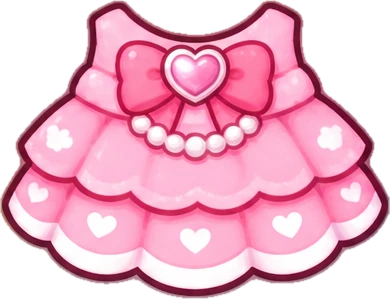
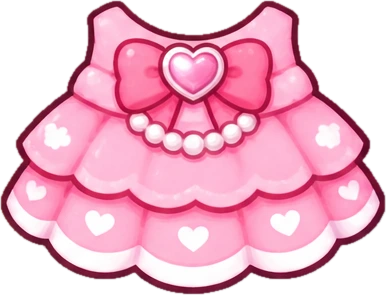
Recut pearl heart dress (hem was cropped)
Claude-Session: https://claude.ai/code/session_01R3m8MAFkhgnU4D5f6BKp5W

diff --git a/index.html b/index.html
@@ -752,7 +752,7 @@ var FOODS = {
 var SHOP = [];
 /* 이미지로 만든 아이템: {id,name,slot,tier,cost,file:'assets/items/id.webp',box:[x,y,w,h]} 를 여기에 추가하면
    뽑기·꾸미기·도감에 자동으로 들어가요. box는 캔버스(640x520) 좌표, vb는 box 와 같아요. */
-var IMG_ITEMS = [{"id": "ribbon", "name": "빨간 리본", "slot": "side", "tier": 0, "cost": 8, "file": "assets/items/ribbon.webp", "box": [374.5, 56.1, 125, 71.7]}, {"id": "flower", "name": "꽃 핀", "slot": "side", "tier": 0, "cost": 12, "file": "assets/items/flower.webp", "box": [152.5, 43.1, 105, 97.7]}, {"id": "sprout", "name": "새싹 핀", "slot": "side", "tier": 0, "cost": 8, "file": "assets/items/sprout.webp", "box": [382.0, 53.3, 110, 77.5]}, {"id": "heart", "name": "하트 핀", "slot": "side", "tier": 0, "cost": 10, "file": "assets/items/heart.webp", "box": [383.0, 46.8, 108, 90.4]}, {"id": "star", "name": "별 핀", "slot": "side", "tier": 0, "cost": 10, "file": "assets/items/star.webp", "box": [383.0, 37.5, 108, 108.9]}, {"id": "cloudbow", "name": "구름 무지개 핀", "slot": "side", "tier": 0, "cost": 12, "file": "assets/items/cloudbow.webp", "box": [377.0, 51.8, 120, 80.5]}, {"id": "cherry", "name": "체리 핀", "slot": "side", "tier": 0, "cost": 12, "file": "assets/items/cherry.webp", "box": [387.0, 42.4, 100, 99.2]}, {"id": "glasses", "name": "동그란 안경", "slot": "face", "tier": 1, "cost": 15, "file": "assets/items/glasses.webp", "box": [143.5, 166.3, 355, 147.4]}, {"id": "scarf", "name": "따뜻한 목도리", "slot": "neck", "tier": 1, "cost": 20, "file": "assets/items/scarf.webp", "box": [179.5, 318.9, 285, 178.3]}, {"id": "hat", "name": "파티 모자", "slot": "head", "tier": 1, "cost": 25, "file": "assets/items/hat.webp", "box": [250.0, -80.1, 140, 168.1]}, {"id": "wingpin", "name": "날개 핀", "slot": "side", "tier": 1, "cost": 18, "file": "assets/items/wingpin.webp", "box": [379.5, 46.4, 115, 91.1]}, {"id": "purplebow", "name": "보라 리본 핀", "slot": "side", "tier": 1, "cost": 15, "file": "assets/items/purplebow.webp", "box": [377.0, 50.1, 120, 83.8]}, {"id": "lacebow", "name": "레이스 리본 핀", "slot": "side", "tier": 1, "cost": 18, "file": "assets/items/lacebow.webp", "box": [379.5, 38.0, 115, 108.1]}, {"id": "snow", "name": "눈꽃 핀", "slot": "side", "tier": 1, "cost": 20, "file": "assets/items/snow.webp", "box": [387.0, 48.3, 100, 87.4]}, {"id": "moon", "name": "달별 핀", "slot": "side", "tier": 1, "cost": 22, "file": "assets/items/moon.webp", "box": [382.0, 39.7, 110, 104.6]}, {"id": "crown", "name": "반짝 왕관", "slot": "head", "tier": 2, "cost": 0, "file": "assets/items/crown.webp", "box": [230.0, -37.8, 180, 127.8]}, {"id": "wizard", "name": "별 마법사 모자", "slot": "head", "tier": 2, "cost": 0, "file": "assets/items/wizard.webp", "box": [177.0, -77.3, 290, 189.3]}, {"id": "starwing", "name": "별무지개 날개 머리띠", "slot": "head", "tier": 2, "cost": 0, "file": "assets/items/starwing.webp", "box": [165.0, 28.9, 310, 134.2]}, {"id": "nightcap", "name": "꿀잠 모자", "slot": "head", "tier": 2, "cost": 0, "file": "assets/items/nightcap.webp", "box": [192.0, 9.8, 260, 180.4]}, {"id": "maid", "name": "프릴 리본 머리띠", "slot": "head", "tier": 2, "cost": 0, "file": "assets/items/maid.webp", "box": [190.0, 19.6, 260, 156.9]}, {"id": "angel", "name": "천사 날개 후광", "slot": "head", "tier": 3, "cost": 0, "file": "assets/items/angel.webp", "box": [150.0, 6.4, 340, 177.1]}, {"id": "bat", "name": "박쥐 날개", "slot": "head", "tier": 3, "cost": 0, "file": "assets/items/bat.webp", "box": [165.0, 48.5, 310, 127.1]}, {"id": "wreath", "name": "꽃 화관", "slot": "head", "tier": 3, "cost": 0, "file": "assets/items/wreath.webp", "box": [180.0, 19.0, 280, 162.0]}, {"id": "tiara", "name": "날개 티아라", "slot": "head", "tier": 3, "cost": 0, "file": "assets/items/tiara.webp", "box": [195.0, 18.6, 250, 146.9]}, {"id": "galaxy", "name": "은하수 머리띠", "slot": "head", "tier": 3, "cost": 0, "file": "assets/items/galaxy.webp", "box": [160.0, 23.2, 320, 161.5]}, {"id": "broom", "name": "빗자루", "slot": "hand", "tier": 0, "cost": 14, "file": "assets/items/broom.webp", "box": [401.6, 283, 100.8, 230]}, {"id": "drink", "name": "음료수", "slot": "hand", "tier": 0, "cost": 10, "file": "assets/items/drink.webp", "box": [136.2, 332, 97.6, 162]}, {"id": "schoolbag", "name": "학교가방", "slot": "hand", "tier": 0, "cost": 16, "file": "assets/items/schoolbag.webp", "box": [383.0, 392, 133.0, 140]}, {"id": "slime", "name": "슬라임", "slot": "hand", "tier": 1, "cost": 18, "file": "assets/items/slime.webp", "box": [108.0, 331.1, 154, 116.8]}, {"id": "gameboy", "name": "휴대용 게임기", "slot": "hand", "tier": 1, "cost": 24, "file": "assets/items/gameboy.webp", "box": [222.0, 359.4, 195, 109.1]}, {"id": "bananadoll", "name": "바나나 애착인형", "slot": "hand", "tier": 2, "cost": 0, "file": "assets/items/bananadoll.webp", "box": [105.0, 303.6, 150, 176.4]}, {"id": "elephantdoll", "name": "코끼리 애착인형", "slot": "hand", "tier": 2, "cost": 0, "file": "assets/items/elephantdoll.webp", "box": [385.0, 321.0, 160, 148.7]}, {"id": "tshirt", "name": "줄무늬 티셔츠", "slot": "outfit", "tier": 0, "cost": 14, "file": "assets/items/tshirt.webp", "box": [200.0, 328, 240, 131.0]}, {"id": "overalls", "name": "멜빵바지", "slot": "outfit", "tier": 0, "cost": 16, "file": "assets/items/overalls.webp", "box": [200.0, 328, 240, 177.4]}, {"id": "dress", "name": "분홍 원피스", "slot": "outfit", "tier": 1, "cost": 26, "file": "assets/items/dress.webp", "box": [200.0, 328, 240, 131.7]}, {"id": "hanbok", "name": "한복", "slot": "outfit", "tier": 1, "cost": 30, "file": "assets/items/hanbok.webp", "box": [200.0, 328, 240, 139.9]}, {"id": "uniform", "name": "세일러 교복", "slot": "outfit", "tier": 1, "cost": 28, "file": "assets/items/uniform.webp", "box": [200.0, 328, 240, 146.9]}, {"id": "cape", "name": "별빛 마법 망토", "slot": "outfit", "tier": 2, "cost": 0, "file": "assets/items/cape.webp", "box": [200.0, 365, 240, 138.0]}, {"id": "princess", "name": "공주 드레스", "slot": "outfit", "tier": 2, "cost": 0, "file": "assets/items/princess.webp", "box": [200.0, 328, 240, 157.7]}, {"id": "spacesuit", "name": "우주복", "slot": "outfit", "tier": 3, "cost": 0, "file": "assets/items/spacesuit.webp", "box": [200.0, 328, 240, 126.9]}, {"id": "heartphones", "name": "하트 헤드폰", "slot": "head", "tier": 1, "cost": 22, "file": "assets/items/heartphones.webp", "box": [82, -12, 476, 273.0]}, {"id": "nursehat", "name": "간호사 모자", "slot": "head", "tier": 0, "cost": 14, "file": "assets/items/nursehat.webp", "box": [215, 14, 210, 102.6]}, {"id": "nursedress", "name": "간호사복", "slot": "outfit", "tier": 1, "cost": 28, "file": "assets/items/nursedress.webp", "box": [180.0, 318, 280, 206.6]}, {"id": "pancake", "name": "팬케이크", "slot": "hand", "tier": 1, "cost": 18, "file": "assets/items/pancake.webp", "box": [110, 335, 150, 121.7]}, {"id": "chocochip", "name": "초코칩", "slot": "hand", "tier": 0, "cost": 12, "file": "assets/items/chocochip.webp", "box": [130, 340, 100, 101.5]}, {"id": "elephantwings", "name": "코끼리 날개", "slot": "back", "tier": 1, "cost": 32, "file": "assets/items/elephantwings.webp", "box": [-30.0, 205, 700, 321.4]}, {"id": "angelwings", "name": "천사 날개", "slot": "back", "tier": 1, "cost": 34, "file": "assets/items/angelwings.webp", "box": [-30.0, 205, 700, 269.5]}, {"id": "demonwings", "name": "악마 날개", "slot": "back", "tier": 1, "cost": 34, "file": "assets/items/demonwings.webp", "box": [-30.0, 205, 700, 300.2]}, {"id": "rainbowwings", "name": "무지개 날개", "slot": "back", "tier": 2, "cost": 0, "file": "assets/items/rainbowwings.webp", "box": [-30.0, 205, 700, 312.6]}, {"id": "butterflywings", "name": "나비 날개", "slot": "back", "tier": 0, "cost": 24, "file": "assets/items/butterflywings.webp", "box": [-30.0, 205, 700, 313.3]}, {"id": "fairywings", "name": "요정 날개", "slot": "back", "tier": 1, "cost": 30, "file": "assets/items/fairywings.webp", "box": [-30.0, 205, 700, 358.8]}, {"id": "crystalwings", "name": "크리스탈 날개", "slot": "back", "tier": 2, "cost": 0, "file": "assets/items/crystalwings.webp", "box": [-30.0, 205, 700, 354.4]}, {"id": "starwings", "name": "별빛 날개", "slot": "back", "tier": 2, "cost": 0, "file": "assets/items/starwings.webp", "box": [-30.0, 205, 700, 348.6]}, {"id": "naturewings", "name": "자연 날개", "slot": "back", "tier": 1, "cost": 30, "file": "assets/items/naturewings.webp", "box": [-30.0, 205, 700, 350.8]}, {"id": "nheart", "name": "하트 멜빵 반바지", "slot": "outfit", "tier": 0, "cost": 16, "file": "assets/items/nheart.webp", "box": [180.0, 318, 280, 210.6]}, {"id": "nribbon", "name": "분홍 리본 원피스", "slot": "outfit", "tier": 1, "cost": 26, "file": "assets/items/nribbon.webp", "box": [180.0, 318, 280, 192.7]}, {"id": "ndaisy", "name": "노랑 데이지 원피스", "slot": "outfit", "tier": 1, "cost": 28, "file": "assets/items/ndaisy.webp", "box": [180.0, 318, 280, 200.4]}, {"id": "nstrawb", "name": "딸기 레이스 원피스", "slot": "outfit", "tier": 1, "cost": 28, "file": "assets/items/nstrawb.webp", "box": [180.0, 318, 280, 188.6]}, {"id": "nsailor", "name": "곰돌이 세일러복", "slot": "outfit", "tier": 0, "cost": 18, "file": "assets/items/nsailor.webp", "box": [180.0, 318, 280, 205.2]}, {"id": "nbeartan", "name": "갈색 리본 곰돌이옷", "slot": "outfit", "tier": 1, "cost": 26, "file": "assets/items/nbeartan.webp", "box": [180.0, 318, 280, 209.0]}, {"id": "nrose", "name": "장미 꽃무늬 원피스", "slot": "outfit", "tier": 1, "cost": 26, "file": "assets/items/nrose.webp", "box": [180.0, 318, 280, 195.0]}, {"id": "nbearblue", "name": "곰돌이 파랑 멜빵", "slot": "outfit", "tier": 0, "cost": 18, "file": "assets/items/nbearblue.webp", "box": [180.0, 318, 280, 209.6]}, {"id": "nstar", "name": "별빛 망토", "slot": "outfit", "tier": 2, "cost": 0, "file": "assets/items/nstar.webp", "box": [180.0, 318, 280, 204.7]}, {"id": "nsnow", "name": "눈꽃 망토", "slot": "outfit", "tier": 2, "cost": 0, "file": "assets/items/nsnow.webp", "box": [180.0, 318, 280, 193.8]}, {"id": "nprince", "name": "왕자님 정복", "slot": "outfit", "tier": 2, "cost": 0, "file": "assets/items/nprince.webp", "box": [180.0, 318, 280, 211.5]}, {"id": "nbat", "name": "박쥐 망토", "slot": "outfit", "tier": 3, "cost": 0, "file": "assets/items/nbat.webp", "box": [180.0, 318, 280, 207.8]}, {"id": "mpink", "name": "핑크 하트 멜빵", "slot": "outfit", "tier": 0, "cost": 16, "file": "assets/items/mpink.webp", "box": [180.0, 318, 280, 226.8]}, {"id": "myellow", "name": "노랑 데이지 리본 원피스", "slot": "outfit", "tier": 1, "cost": 26, "file": "assets/items/myellow.webp", "box": [180.0, 318, 280, 197.4]}, {"id": "manchor", "name": "닻 세일러 원피스", "slot": "outfit", "tier": 0, "cost": 18, "file": "assets/items/manchor.webp", "box": [180.0, 318, 280, 206.7]}, {"id": "mstrawchk", "name": "딸기 체크 원피스", "slot": "outfit", "tier": 1, "cost": 28, "file": "assets/items/mstrawchk.webp", "box": [180.0, 318, 280, 196.1]}, {"id": "mdenim", "name": "별 청멜빵 반바지", "slot": "outfit", "tier": 0, "cost": 16, "file": "assets/items/mdenim.webp", "box": [180.0, 318, 280, 213.6]}, {"id": "mlavender", "name": "라벤더 프릴 원피스", "slot": "outfit", "tier": 1, "cost": 28, "file": "assets/items/mlavender.webp", "box": [180.0, 318, 280, 197.1]}, {"id": "mbearcream", "name": "곰돌이 크림 멜빵", "slot": "outfit", "tier": 1, "cost": 26, "file": "assets/items/mbearcream.webp", "box": [180.0, 318, 280, 215.8]}, {"id": "mmint", "name": "민트 클로버 원피스", "slot": "outfit", "tier": 1, "cost": 26, "file": "assets/items/mmint.webp", "box": [180.0, 318, 280, 202.9]}, {"id": "mcloud", "name": "구름 리본 원피스", "slot": "outfit", "tier": 1, "cost": 26, "file": "assets/items/mcloud.webp", "box": [180.0, 318, 280, 205.4]}, {"id": "mbee", "name": "꿀벌 멜빵", "slot": "outfit", "tier": 2, "cost": 0, "file": "assets/items/mbee.webp", "box": [180.0, 318, 280, 232.5]}, {"id": "mpearl", "name": "진주 하트 원피스", "slot": "outfit", "tier": 2, "cost": 0, "file": "assets/items/mpearl.webp", "box": [180.0, 318, 280, 214.7]}, {"id": "mnavy", "name": "달별 네이비 정복", "slot": "outfit", "tier": 3, "cost": 0, "file": "assets/items/mnavy.webp", "box": [180.0, 318, 280, 211.5]}, {"id": "psakura", "name": "벚꽃 원피스", "slot": "outfit", "tier": 1, "cost": 26, "file": "assets/items/psakura.webp", "box": [180.0, 328, 280, 217.5]}, {"id": "palice", "name": "앨리스 원피스", "slot": "outfit", "tier": 2, "cost": 0, "file": "assets/items/palice.webp", "box": [180.0, 328, 280, 222.2]}, {"id": "ppicnic", "name": "체크 피크닉 원피스", "slot": "outfit", "tier": 1, "cost": 28, "file": "assets/items/ppicnic.webp", "box": [180.0, 328, 280, 222.3]}, {"id": "pballet", "name": "발레코어 원피스", "slot": "outfit", "tier": 1, "cost": 28, "file": "assets/items/pballet.webp", "box": [180.0, 328, 280, 206.8]}, {"id": "pangel", "name": "천사 원피스", "slot": "outfit", "tier": 2, "cost": 0, "file": "assets/items/pangel.webp", "box": [180.0, 328, 280, 210.4]}, {"id": "pwedding", "name": "웨딩 드레스", "slot": "outfit", "tier": 3, "cost": 0, "file": "assets/items/pwedding.webp", "box": [180.0, 328, 280, 215.6]}, {"id": "pbee", "name": "꿀벌 원피스", "slot": "outfit", "tier": 1, "cost": 26, "file": "assets/items/pbee.webp", "box": [180.0, 328, 280, 236.0]}, {"id": "pfrog", "name": "개구리 멜빵", "slot": "outfit", "tier": 0, "cost": 18, "file": "assets/items/pfrog.webp", "box": [180.0, 328, 280, 214.2]}, {"id": "pcherry", "name": "체리 원피스", "slot": "outfit", "tier": 1, "cost": 28, "file": "assets/items/pcherry.webp", "box": [180.0, 328, 280, 228.3]}, {"id": "pcloudstar", "name": "구름별 원피스", "slot": "outfit", "tier": 2, "cost": 0, "file": "assets/items/pcloudstar.webp", "box": [180.0, 328, 280, 234.1]}, {"id": "pgoth", "name": "고딕 로리타", "slot": "outfit", "tier": 2, "cost": 0, "file": "assets/items/pgoth.webp", "box": [180.0, 328, 280, 230.8]}, {"id": "pxmas", "name": "크리스마스 원피스", "slot": "outfit", "tier": 3, "cost": 0, "file": "assets/items/pxmas.webp", "box": [180.0, 328, 280, 219.7]}];
+var IMG_ITEMS = [{"id": "ribbon", "name": "빨간 리본", "slot": "side", "tier": 0, "cost": 8, "file": "assets/items/ribbon.webp", "box": [374.5, 56.1, 125, 71.7]}, {"id": "flower", "name": "꽃 핀", "slot": "side", "tier": 0, "cost": 12, "file": "assets/items/flower.webp", "box": [152.5, 43.1, 105, 97.7]}, {"id": "sprout", "name": "새싹 핀", "slot": "side", "tier": 0, "cost": 8, "file": "assets/items/sprout.webp", "box": [382.0, 53.3, 110, 77.5]}, {"id": "heart", "name": "하트 핀", "slot": "side", "tier": 0, "cost": 10, "file": "assets/items/heart.webp", "box": [383.0, 46.8, 108, 90.4]}, {"id": "star", "name": "별 핀", "slot": "side", "tier": 0, "cost": 10, "file": "assets/items/star.webp", "box": [383.0, 37.5, 108, 108.9]}, {"id": "cloudbow", "name": "구름 무지개 핀", "slot": "side", "tier": 0, "cost": 12, "file": "assets/items/cloudbow.webp", "box": [377.0, 51.8, 120, 80.5]}, {"id": "cherry", "name": "체리 핀", "slot": "side", "tier": 0, "cost": 12, "file": "assets/items/cherry.webp", "box": [387.0, 42.4, 100, 99.2]}, {"id": "glasses", "name": "동그란 안경", "slot": "face", "tier": 1, "cost": 15, "file": "assets/items/glasses.webp", "box": [143.5, 166.3, 355, 147.4]}, {"id": "scarf", "name": "따뜻한 목도리", "slot": "neck", "tier": 1, "cost": 20, "file": "assets/items/scarf.webp", "box": [179.5, 318.9, 285, 178.3]}, {"id": "hat", "name": "파티 모자", "slot": "head", "tier": 1, "cost": 25, "file": "assets/items/hat.webp", "box": [250.0, -80.1, 140, 168.1]}, {"id": "wingpin", "name": "날개 핀", "slot": "side", "tier": 1, "cost": 18, "file": "assets/items/wingpin.webp", "box": [379.5, 46.4, 115, 91.1]}, {"id": "purplebow", "name": "보라 리본 핀", "slot": "side", "tier": 1, "cost": 15, "file": "assets/items/purplebow.webp", "box": [377.0, 50.1, 120, 83.8]}, {"id": "lacebow", "name": "레이스 리본 핀", "slot": "side", "tier": 1, "cost": 18, "file": "assets/items/lacebow.webp", "box": [379.5, 38.0, 115, 108.1]}, {"id": "snow", "name": "눈꽃 핀", "slot": "side", "tier": 1, "cost": 20, "file": "assets/items/snow.webp", "box": [387.0, 48.3, 100, 87.4]}, {"id": "moon", "name": "달별 핀", "slot": "side", "tier": 1, "cost": 22, "file": "assets/items/moon.webp", "box": [382.0, 39.7, 110, 104.6]}, {"id": "crown", "name": "반짝 왕관", "slot": "head", "tier": 2, "cost": 0, "file": "assets/items/crown.webp", "box": [230.0, -37.8, 180, 127.8]}, {"id": "wizard", "name": "별 마법사 모자", "slot": "head", "tier": 2, "cost": 0, "file": "assets/items/wizard.webp", "box": [177.0, -77.3, 290, 189.3]}, {"id": "starwing", "name": "별무지개 날개 머리띠", "slot": "head", "tier": 2, "cost": 0, "file": "assets/items/starwing.webp", "box": [165.0, 28.9, 310, 134.2]}, {"id": "nightcap", "name": "꿀잠 모자", "slot": "head", "tier": 2, "cost": 0, "file": "assets/items/nightcap.webp", "box": [192.0, 9.8, 260, 180.4]}, {"id": "maid", "name": "프릴 리본 머리띠", "slot": "head", "tier": 2, "cost": 0, "file": "assets/items/maid.webp", "box": [190.0, 19.6, 260, 156.9]}, {"id": "angel", "name": "천사 날개 후광", "slot": "head", "tier": 3, "cost": 0, "file": "assets/items/angel.webp", "box": [150.0, 6.4, 340, 177.1]}, {"id": "bat", "name": "박쥐 날개", "slot": "head", "tier": 3, "cost": 0, "file": "assets/items/bat.webp", "box": [165.0, 48.5, 310, 127.1]}, {"id": "wreath", "name": "꽃 화관", "slot": "head", "tier": 3, "cost": 0, "file": "assets/items/wreath.webp", "box": [180.0, 19.0, 280, 162.0]}, {"id": "tiara", "name": "날개 티아라", "slot": "head", "tier": 3, "cost": 0, "file": "assets/items/tiara.webp", "box": [195.0, 18.6, 250, 146.9]}, {"id": "galaxy", "name": "은하수 머리띠", "slot": "head", "tier": 3, "cost": 0, "file": "assets/items/galaxy.webp", "box": [160.0, 23.2, 320, 161.5]}, {"id": "broom", "name": "빗자루", "slot": "hand", "tier": 0, "cost": 14, "file": "assets/items/broom.webp", "box": [401.6, 283, 100.8, 230]}, {"id": "drink", "name": "음료수", "slot": "hand", "tier": 0, "cost": 10, "file": "assets/items/drink.webp", "box": [136.2, 332, 97.6, 162]}, {"id": "schoolbag", "name": "학교가방", "slot": "hand", "tier": 0, "cost": 16, "file": "assets/items/schoolbag.webp", "box": [383.0, 392, 133.0, 140]}, {"id": "slime", "name": "슬라임", "slot": "hand", "tier": 1, "cost": 18, "file": "assets/items/slime.webp", "box": [108.0, 331.1, 154, 116.8]}, {"id": "gameboy", "name": "휴대용 게임기", "slot": "hand", "tier": 1, "cost": 24, "file": "assets/items/gameboy.webp", "box": [222.0, 359.4, 195, 109.1]}, {"id": "bananadoll", "name": "바나나 애착인형", "slot": "hand", "tier": 2, "cost": 0, "file": "assets/items/bananadoll.webp", "box": [105.0, 303.6, 150, 176.4]}, {"id": "elephantdoll", "name": "코끼리 애착인형", "slot": "hand", "tier": 2, "cost": 0, "file": "assets/items/elephantdoll.webp", "box": [385.0, 321.0, 160, 148.7]}, {"id": "tshirt", "name": "줄무늬 티셔츠", "slot": "outfit", "tier": 0, "cost": 14, "file": "assets/items/tshirt.webp", "box": [200.0, 328, 240, 131.0]}, {"id": "overalls", "name": "멜빵바지", "slot": "outfit", "tier": 0, "cost": 16, "file": "assets/items/overalls.webp", "box": [200.0, 328, 240, 177.4]}, {"id": "dress", "name": "분홍 원피스", "slot": "outfit", "tier": 1, "cost": 26, "file": "assets/items/dress.webp", "box": [200.0, 328, 240, 131.7]}, {"id": "hanbok", "name": "한복", "slot": "outfit", "tier": 1, "cost": 30, "file": "assets/items/hanbok.webp", "box": [200.0, 328, 240, 139.9]}, {"id": "uniform", "name": "세일러 교복", "slot": "outfit", "tier": 1, "cost": 28, "file": "assets/items/uniform.webp", "box": [200.0, 328, 240, 146.9]}, {"id": "cape", "name": "별빛 마법 망토", "slot": "outfit", "tier": 2, "cost": 0, "file": "assets/items/cape.webp", "box": [200.0, 365, 240, 138.0]}, {"id": "princess", "name": "공주 드레스", "slot": "outfit", "tier": 2, "cost": 0, "file": "assets/items/princess.webp", "box": [200.0, 328, 240, 157.7]}, {"id": "spacesuit", "name": "우주복", "slot": "outfit", "tier": 3, "cost": 0, "file": "assets/items/spacesuit.webp", "box": [200.0, 328, 240, 126.9]}, {"id": "heartphones", "name": "하트 헤드폰", "slot": "head", "tier": 1, "cost": 22, "file": "assets/items/heartphones.webp", "box": [82, -12, 476, 273.0]}, {"id": "nursehat", "name": "간호사 모자", "slot": "head", "tier": 0, "cost": 14, "file": "assets/items/nursehat.webp", "box": [215, 14, 210, 102.6]}, {"id": "nursedress", "name": "간호사복", "slot": "outfit", "tier": 1, "cost": 28, "file": "assets/items/nursedress.webp", "box": [180.0, 318, 280, 206.6]}, {"id": "pancake", "name": "팬케이크", "slot": "hand", "tier": 1, "cost": 18, "file": "assets/items/pancake.webp", "box": [110, 335, 150, 121.7]}, {"id": "chocochip", "name": "초코칩", "slot": "hand", "tier": 0, "cost": 12, "file": "assets/items/chocochip.webp", "box": [130, 340, 100, 101.5]}, {"id": "elephantwings", "name": "코끼리 날개", "slot": "back", "tier": 1, "cost": 32, "file": "assets/items/elephantwings.webp", "box": [-30.0, 205, 700, 321.4]}, {"id": "angelwings", "name": "천사 날개", "slot": "back", "tier": 1, "cost": 34, "file": "assets/items/angelwings.webp", "box": [-30.0, 205, 700, 269.5]}, {"id": "demonwings", "name": "악마 날개", "slot": "back", "tier": 1, "cost": 34, "file": "assets/items/demonwings.webp", "box": [-30.0, 205, 700, 300.2]}, {"id": "rainbowwings", "name": "무지개 날개", "slot": "back", "tier": 2, "cost": 0, "file": "assets/items/rainbowwings.webp", "box": [-30.0, 205, 700, 312.6]}, {"id": "butterflywings", "name": "나비 날개", "slot": "back", "tier": 0, "cost": 24, "file": "assets/items/butterflywings.webp", "box": [-30.0, 205, 700, 313.3]}, {"id": "fairywings", "name": "요정 날개", "slot": "back", "tier": 1, "cost": 30, "file": "assets/items/fairywings.webp", "box": [-30.0, 205, 700, 358.8]}, {"id": "crystalwings", "name": "크리스탈 날개", "slot": "back", "tier": 2, "cost": 0, "file": "assets/items/crystalwings.webp", "box": [-30.0, 205, 700, 354.4]}, {"id": "starwings", "name": "별빛 날개", "slot": "back", "tier": 2, "cost": 0, "file": "assets/items/starwings.webp", "box": [-30.0, 205, 700, 348.6]}, {"id": "naturewings", "name": "자연 날개", "slot": "back", "tier": 1, "cost": 30, "file": "assets/items/naturewings.webp", "box": [-30.0, 205, 700, 350.8]}, {"id": "nheart", "name": "하트 멜빵 반바지", "slot": "outfit", "tier": 0, "cost": 16, "file": "assets/items/nheart.webp", "box": [180.0, 318, 280, 210.6]}, {"id": "nribbon", "name": "분홍 리본 원피스", "slot": "outfit", "tier": 1, "cost": 26, "file": "assets/items/nribbon.webp", "box": [180.0, 318, 280, 192.7]}, {"id": "ndaisy", "name": "노랑 데이지 원피스", "slot": "outfit", "tier": 1, "cost": 28, "file": "assets/items/ndaisy.webp", "box": [180.0, 318, 280, 200.4]}, {"id": "nstrawb", "name": "딸기 레이스 원피스", "slot": "outfit", "tier": 1, "cost": 28, "file": "assets/items/nstrawb.webp", "box": [180.0, 318, 280, 188.6]}, {"id": "nsailor", "name": "곰돌이 세일러복", "slot": "outfit", "tier": 0, "cost": 18, "file": "assets/items/nsailor.webp", "box": [180.0, 318, 280, 205.2]}, {"id": "nbeartan", "name": "갈색 리본 곰돌이옷", "slot": "outfit", "tier": 1, "cost": 26, "file": "assets/items/nbeartan.webp", "box": [180.0, 318, 280, 209.0]}, {"id": "nrose", "name": "장미 꽃무늬 원피스", "slot": "outfit", "tier": 1, "cost": 26, "file": "assets/items/nrose.webp", "box": [180.0, 318, 280, 195.0]}, {"id": "nbearblue", "name": "곰돌이 파랑 멜빵", "slot": "outfit", "tier": 0, "cost": 18, "file": "assets/items/nbearblue.webp", "box": [180.0, 318, 280, 209.6]}, {"id": "nstar", "name": "별빛 망토", "slot": "outfit", "tier": 2, "cost": 0, "file": "assets/items/nstar.webp", "box": [180.0, 318, 280, 204.7]}, {"id": "nsnow", "name": "눈꽃 망토", "slot": "outfit", "tier": 2, "cost": 0, "file": "assets/items/nsnow.webp", "box": [180.0, 318, 280, 193.8]}, {"id": "nprince", "name": "왕자님 정복", "slot": "outfit", "tier": 2, "cost": 0, "file": "assets/items/nprince.webp", "box": [180.0, 318, 280, 211.5]}, {"id": "nbat", "name": "박쥐 망토", "slot": "outfit", "tier": 3, "cost": 0, "file": "assets/items/nbat.webp", "box": [180.0, 318, 280, 207.8]}, {"id": "mpink", "name": "핑크 하트 멜빵", "slot": "outfit", "tier": 0, "cost": 16, "file": "assets/items/mpink.webp", "box": [180.0, 318, 280, 226.8]}, {"id": "myellow", "name": "노랑 데이지 리본 원피스", "slot": "outfit", "tier": 1, "cost": 26, "file": "assets/items/myellow.webp", "box": [180.0, 318, 280, 197.4]}, {"id": "manchor", "name": "닻 세일러 원피스", "slot": "outfit", "tier": 0, "cost": 18, "file": "assets/items/manchor.webp", "box": [180.0, 318, 280, 206.7]}, {"id": "mstrawchk", "name": "딸기 체크 원피스", "slot": "outfit", "tier": 1, "cost": 28, "file": "assets/items/mstrawchk.webp", "box": [180.0, 318, 280, 196.1]}, {"id": "mdenim", "name": "별 청멜빵 반바지", "slot": "outfit", "tier": 0, "cost": 16, "file": "assets/items/mdenim.webp", "box": [180.0, 318, 280, 213.6]}, {"id": "mlavender", "name": "라벤더 프릴 원피스", "slot": "outfit", "tier": 1, "cost": 28, "file": "assets/items/mlavender.webp", "box": [180.0, 318, 280, 197.1]}, {"id": "mbearcream", "name": "곰돌이 크림 멜빵", "slot": "outfit", "tier": 1, "cost": 26, "file": "assets/items/mbearcream.webp", "box": [180.0, 318, 280, 215.8]}, {"id": "mmint", "name": "민트 클로버 원피스", "slot": "outfit", "tier": 1, "cost": 26, "file": "assets/items/mmint.webp", "box": [180.0, 318, 280, 202.9]}, {"id": "mcloud", "name": "구름 리본 원피스", "slot": "outfit", "tier": 1, "cost": 26, "file": "assets/items/mcloud.webp", "box": [180.0, 318, 280, 205.4]}, {"id": "mbee", "name": "꿀벌 멜빵", "slot": "outfit", "tier": 2, "cost": 0, "file": "assets/items/mbee.webp", "box": [180.0, 318, 280, 232.5]}, {"id": "mpearl", "name": "진주 하트 원피스", "slot": "outfit", "tier": 2, "cost": 0, "file": "assets/items/mpearl.webp", "box": [160.0, 318, 280, 214.0]}, {"id": "mnavy", "name": "달별 네이비 정복", "slot": "outfit", "tier": 3, "cost": 0, "file": "assets/items/mnavy.webp", "box": [180.0, 318, 280, 211.5]}, {"id": "psakura", "name": "벚꽃 원피스", "slot": "outfit", "tier": 1, "cost": 26, "file": "assets/items/psakura.webp", "box": [180.0, 328, 280, 217.5]}, {"id": "palice", "name": "앨리스 원피스", "slot": "outfit", "tier": 2, "cost": 0, "file": "assets/items/palice.webp", "box": [180.0, 328, 280, 222.2]}, {"id": "ppicnic", "name": "체크 피크닉 원피스", "slot": "outfit", "tier": 1, "cost": 28, "file": "assets/items/ppicnic.webp", "box": [180.0, 328, 280, 222.3]}, {"id": "pballet", "name": "발레코어 원피스", "slot": "outfit", "tier": 1, "cost": 28, "file": "assets/items/pballet.webp", "box": [180.0, 328, 280, 206.8]}, {"id": "pangel", "name": "천사 원피스", "slot": "outfit", "tier": 2, "cost": 0, "file": "assets/items/pangel.webp", "box": [180.0, 328, 280, 210.4]}, {"id": "pwedding", "name": "웨딩 드레스", "slot": "outfit", "tier": 3, "cost": 0, "file": "assets/items/pwedding.webp", "box": [180.0, 328, 280, 215.6]}, {"id": "pbee", "name": "꿀벌 원피스", "slot": "outfit", "tier": 1, "cost": 26, "file": "assets/items/pbee.webp", "box": [180.0, 328, 280, 236.0]}, {"id": "pfrog", "name": "개구리 멜빵", "slot": "outfit", "tier": 0, "cost": 18, "file": "assets/items/pfrog.webp", "box": [180.0, 328, 280, 214.2]}, {"id": "pcherry", "name": "체리 원피스", "slot": "outfit", "tier": 1, "cost": 28, "file": "assets/items/pcherry.webp", "box": [180.0, 328, 280, 228.3]}, {"id": "pcloudstar", "name": "구름별 원피스", "slot": "outfit", "tier": 2, "cost": 0, "file": "assets/items/pcloudstar.webp", "box": [180.0, 328, 280, 234.1]}, {"id": "pgoth", "name": "고딕 로리타", "slot": "outfit", "tier": 2, "cost": 0, "file": "assets/items/pgoth.webp", "box": [180.0, 328, 280, 230.8]}, {"id": "pxmas", "name": "크리스마스 원피스", "slot": "outfit", "tier": 3, "cost": 0, "file": "assets/items/pxmas.webp", "box": [180.0, 328, 280, 219.7]}];
 var ROOM_ITEMS = [{"id": "wall1", "name": "분홍 줄무늬 벽지", "kind": "wallpaper", "tier": 0, "file": "assets/room/wall1.webp", "w": 114, "h": 88}, {"id": "wall2", "name": "하늘 구름 벽지", "kind": "wallpaper", "tier": 0, "file": "assets/room/wall2.webp", "w": 116, "h": 88}, {"id": "wall3", "name": "노랑 별 벽지", "kind": "wallpaper", "tier": 1, "file": "assets/room/wall3.webp", "w": 116, "h": 88}, {"id": "wall4", "name": "보라 달 벽지", "kind": "wallpaper", "tier": 1, "file": "assets/room/wall4.webp", "w": 116, "h": 88}, {"id": "floor1", "name": "분홍 체크 바닥", "kind": "floor", "tier": 0, "file": "assets/room/floor1.webp", "w": 110, "h": 51}, {"id": "floor2", "name": "나무 바닥", "kind": "floor", "tier": 0, "file": "assets/room/floor2.webp", "w": 132, "h": 99}, {"id": "floor3", "name": "하얀 대리석 바닥", "kind": "floor", "tier": 1, "file": "assets/room/floor3.webp", "w": 70, "h": 59}, {"id": "floor4", "name": "초록 다다미 바닥", "kind": "floor", "tier": 1, "file": "assets/room/floor4.webp", "w": 117, "h": 55}, {"id": "bed", "name": "하트 침대", "kind": "furn", "tier": 2, "file": "assets/room/bed.webp", "w": 156, "h": 151}, {"id": "sofa", "name": "구름 소파", "kind": "furn", "tier": 2, "file": "assets/room/sofa.webp", "w": 152, "h": 121}, {"id": "bookshelf", "name": "코끼리 책장", "kind": "furn", "tier": 2, "file": "assets/room/bookshelf.webp", "w": 117, "h": 168}, {"id": "desk", "name": "공부 책상", "kind": "furn", "tier": 2, "file": "assets/room/desk.webp", "w": 182, "h": 146}, {"id": "dresser", "name": "거울 서랍장", "kind": "furn", "tier": 2, "file": "assets/room/dresser.webp", "w": 113, "h": 151}, {"id": "armchair", "name": "하트 안락의자", "kind": "furn", "tier": 1, "file": "assets/room/armchair.webp", "w": 126, "h": 127}, {"id": "curtains", "name": "분홍 커튼", "kind": "wall", "tier": 1, "file": "assets/room/curtains.webp", "w": 149, "h": 115}, {"id": "window1", "name": "둥근 창문", "kind": "wall", "tier": 1, "file": "assets/room/window1.webp", "w": 104, "h": 100}, {"id": "window2", "name": "숲 창문", "kind": "wall", "tier": 0, "file": "assets/room/window2.webp", "w": 77, "h": 83}, {"id": "chandelier", "name": "리본 샹들리에", "kind": "wall", "tier": 1, "file": "assets/room/chandelier.webp", "w": 93, "h": 94}, {"id": "moonlight", "name": "달 구름 조명", "kind": "wall", "tier": 1, "file": "assets/room/moonlight.webp", "w": 96, "h": 79}, {"id": "mobile", "name": "별 모빌", "kind": "wall", "tier": 1, "file": "assets/room/mobile.webp", "w": 78, "h": 87}, {"id": "tablelamp", "name": "분홍 스탠드", "kind": "prop", "tier": 0, "file": "assets/room/tablelamp.webp", "w": 62, "h": 83}, {"id": "floorlamp", "name": "리본 장스탠드", "kind": "prop", "tier": 1, "file": "assets/room/floorlamp.webp", "w": 59, "h": 154}, {"id": "heartdeco", "name": "하트 장식", "kind": "wall", "tier": 0, "file": "assets/room/heartdeco.webp", "w": 58, "h": 73}, {"id": "frame1", "name": "하트 액자", "kind": "wall", "tier": 0, "file": "assets/room/frame1.webp", "w": 61, "h": 73}, {"id": "frame2", "name": "코끼리 액자", "kind": "wall", "tier": 0, "file": "assets/room/frame2.webp", "w": 76, "h": 76}, {"id": "frame3", "name": "구름 액자", "kind": "wall", "tier": 0, "file": "assets/room/frame3.webp", "w": 44, "h": 54}, {"id": "calendar", "name": "달력", "kind": "wall", "tier": 0, "file": "assets/room/calendar.webp", "w": 61, "h": 96}, {"id": "clock", "name": "리본 시계", "kind": "wall", "tier": 0, "file": "assets/room/clock.webp", "w": 62, "h": 80}, {"id": "wallshelf", "name": "코끼리 선반", "kind": "wall", "tier": 1, "file": "assets/room/wallshelf.webp", "w": 157, "h": 82}, {"id": "hangplant", "name": "걸이 화분", "kind": "wall", "tier": 0, "file": "assets/room/hangplant.webp", "w": 51, "h": 98}, {"id": "plantpot", "name": "리본 화분", "kind": "prop", "tier": 0, "file": "assets/room/plantpot.webp", "w": 73, "h": 101}, {"id": "flowershelf", "name": "꽃 선반", "kind": "wall", "tier": 1, "file": "assets/room/flowershelf.webp", "w": 122, "h": 71}, {"id": "bluerug", "name": "파란 꽃 러그", "kind": "rug", "tier": 1, "file": "assets/room/bluerug.webp", "w": 172, "h": 81}, {"id": "tulip", "name": "튤립 화병", "kind": "prop", "tier": 0, "file": "assets/room/tulip.webp", "w": 61, "h": 115}, {"id": "bigplant", "name": "큰 화분", "kind": "prop", "tier": 1, "file": "assets/room/bigplant.webp", "w": 80, "h": 121}, {"id": "flowerstool", "name": "꽃 테이블", "kind": "furn", "tier": 1, "file": "assets/room/flowerstool.webp", "w": 98, "h": 70}, {"id": "pinkstool", "name": "분홍 의자", "kind": "furn", "tier": 0, "file": "assets/room/pinkstool.webp", "w": 62, "h": 68}, {"id": "pinkbox", "name": "하트 상자", "kind": "prop", "tier": 0, "file": "assets/room/pinkbox.webp", "w": 67, "h": 57}, {"id": "teddy", "name": "곰돌이 인형", "kind": "prop", "tier": 0, "file": "assets/room/teddy.webp", "w": 65, "h": 74}, {"id": "cloudrug", "name": "구름 러그", "kind": "rug", "tier": 0, "file": "assets/room/cloudrug.webp", "w": 77, "h": 48}, {"id": "quilt", "name": "누빔 하트 러그", "kind": "rug", "tier": 0, "file": "assets/room/quilt.webp", "w": 64, "h": 53}, {"id": "sidetable", "name": "하트 협탁", "kind": "furn", "tier": 0, "file": "assets/room/sidetable.webp", "w": 52, "h": 57}, {"id": "ottoman", "name": "분홍 오토만", "kind": "furn", "tier": 0, "file": "assets/room/ottoman.webp", "w": 56, "h": 53}, {"id": "globe", "name": "지구본", "kind": "prop", "tier": 0, "file": "assets/room/globe.webp", "w": 48, "h": 61}, {"id": "mirror", "name": "스탠드 거울", "kind": "prop", "tier": 0, "file": "assets/room/mirror.webp", "w": 52, "h": 58}, {"id": "books", "name": "책 더미", "kind": "prop", "tier": 0, "file": "assets/room/books.webp", "w": 52, "h": 46}, {"id": "boxes", "name": "선물 상자", "kind": "prop", "tier": 0, "file": "assets/room/boxes.webp", "w": 53, "h": 61}, {"id": "lantern", "name": "작은 랜턴", "kind": "prop", "tier": 0, "file": "assets/room/lantern.webp", "w": 34, "h": 37}];
 var TIERS = [
   {name:'보통',     w:60, dup:4,  buy:true},
